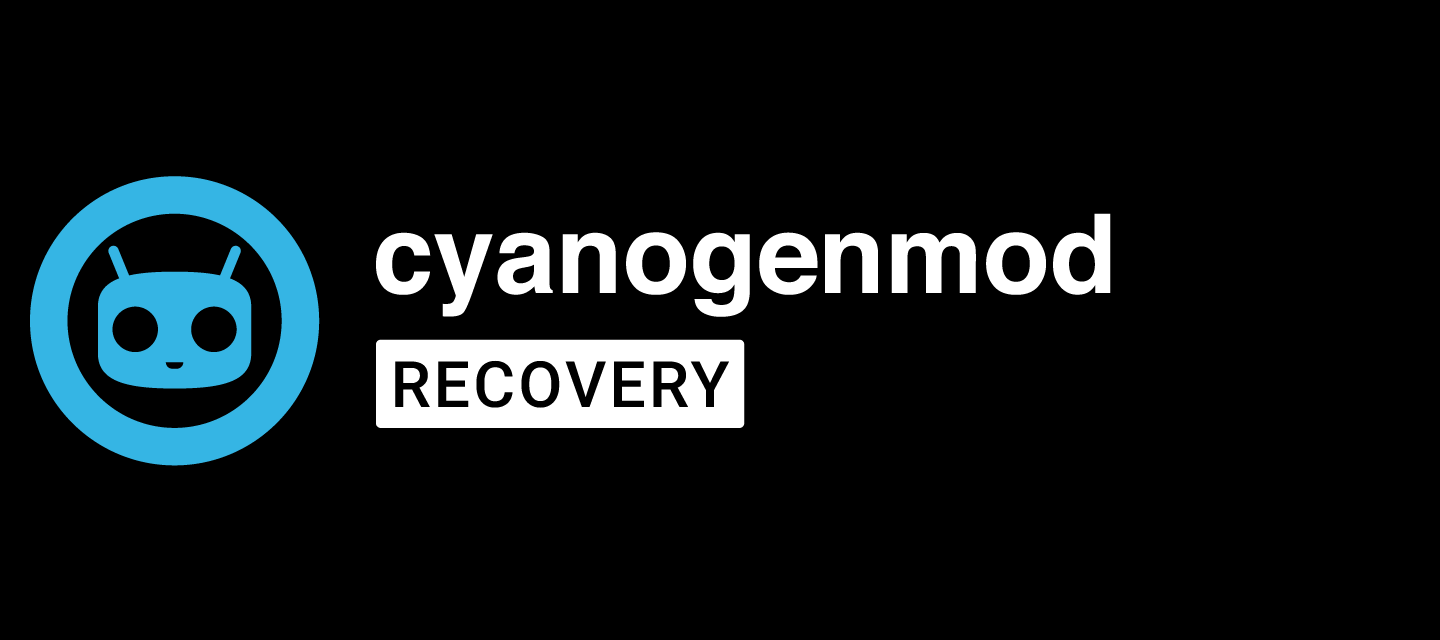
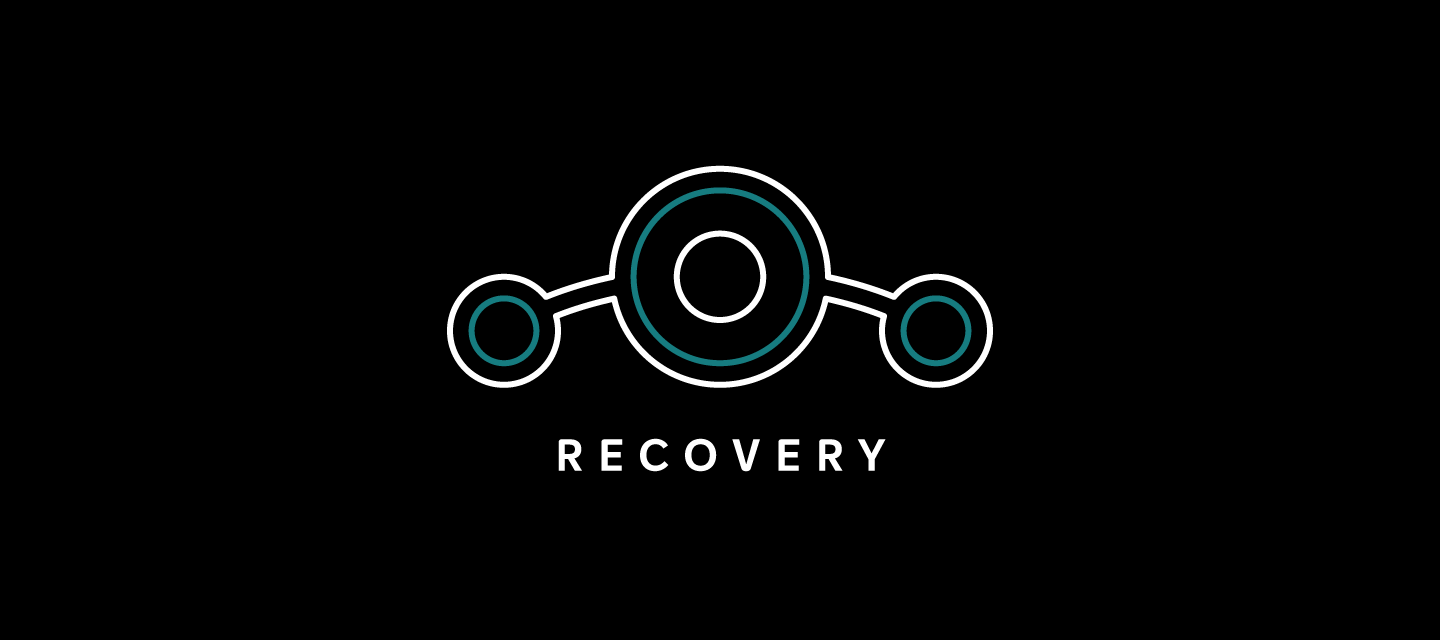
recovery: rebrand for lineage

Changed region(s): [[0.25, 0.25, 0.7812, 0.75], [0.0, 0.25, 0.2188, 0.75]]

diff --git a/screen_ui.cpp b/screen_ui.cpp
@@ -250,10 +250,10 @@ void ScreenRecoveryUI::SetColor(UIElement e) {
             gr_color(106, 103, 102, 255);
             break;
         case MENU_SEL_BG_ACTIVE:
-            gr_color(138, 135, 134, 255);
+            gr_color(63, 60, 61, 255);
             break;
         case MENU_SEL_FG:
-            gr_color(0, 177, 229, 255);
+            gr_color(22, 124, 128, 255);
             break;
         case LOG:
             gr_color(196, 196, 196, 255);
